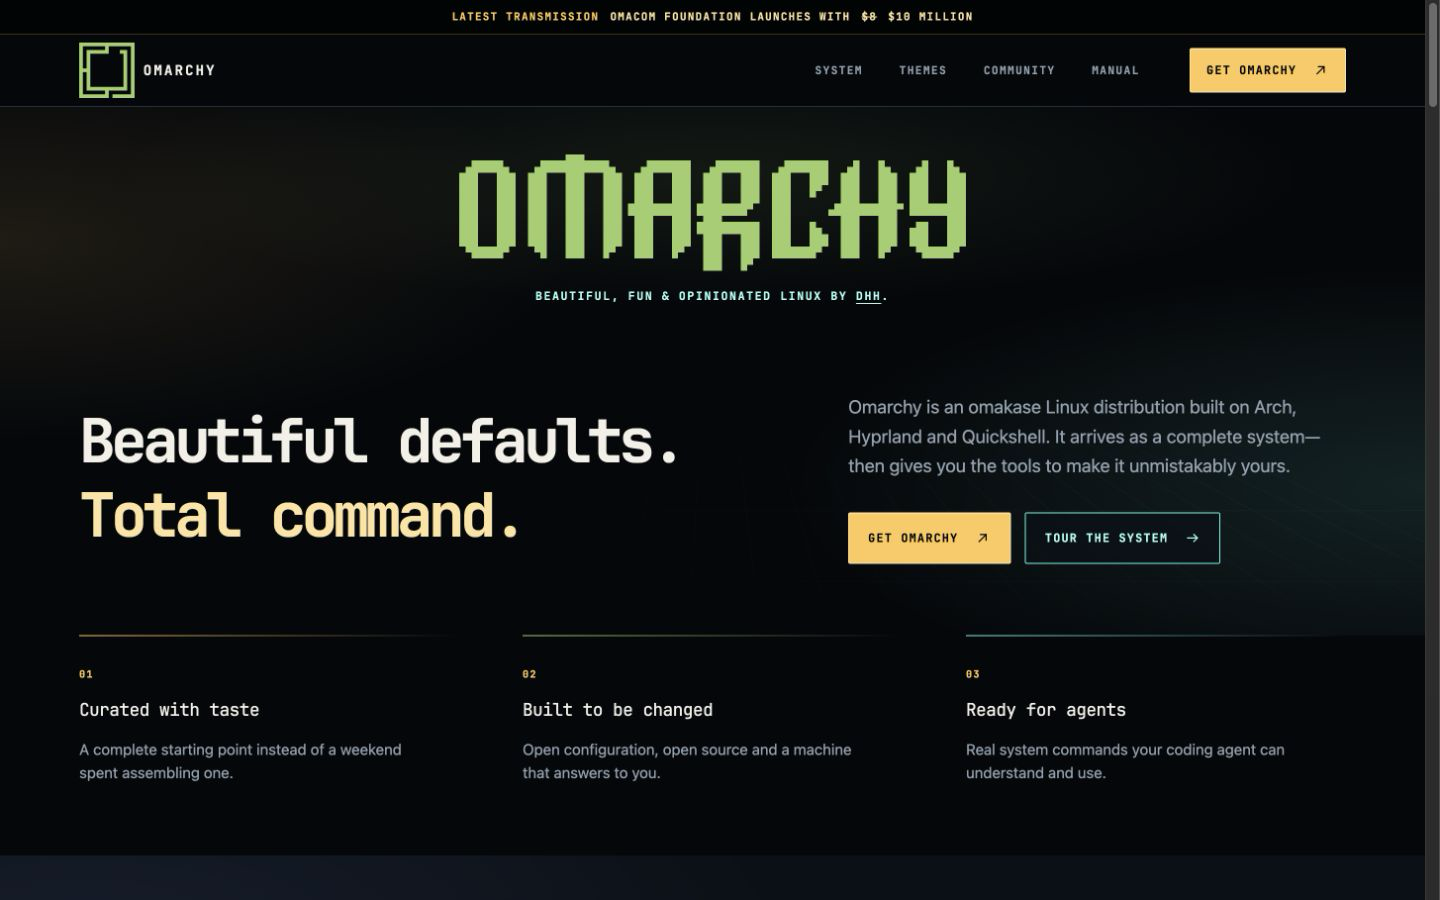
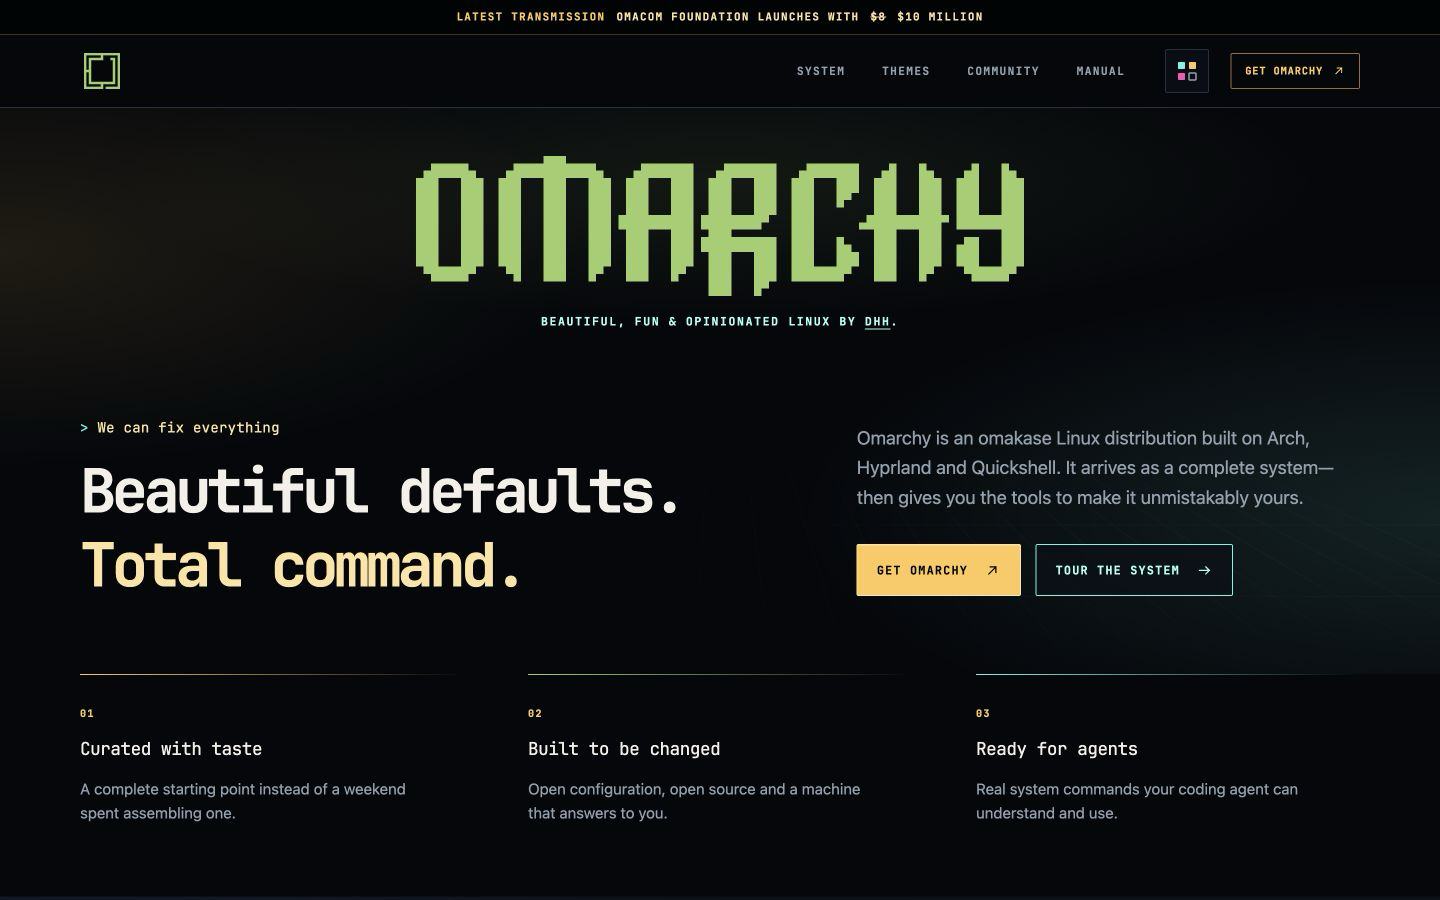
Refresh README with current desktop and mobile screenshots

diff --git a/README.md b/README.md
@@ -10,7 +10,11 @@ This is not the official Omarchy site and is not endorsed by Omacom or 37signals
 [Pages fallback](https://omarchy-sovereign-machine.pages.dev/) ·
 [Case study](docs/CASE-STUDY.md) · [Implementation notes](IMPLEMENTATION-NOTES.md)
 
-![The Sovereign Machine desktop homepage](docs/screenshots/sovereign-machine-homepage-desktop-1440.png)
+![Current Sovereign Machine homepage with the larger Omarchy wordmark and “We can fix everything” terminal message](docs/screenshots/sovereign-machine-homepage-desktop-1440.png)
+
+Captured from the live preview on August 30, 2026, in the Sovereign palette
+after the CRT reveal completes. Desktop: 1440 × 900.
+[View the matching mobile capture (390 × 844)](docs/screenshots/sovereign-machine-homepage-mobile-390.png).
 
 ## The direction
 
